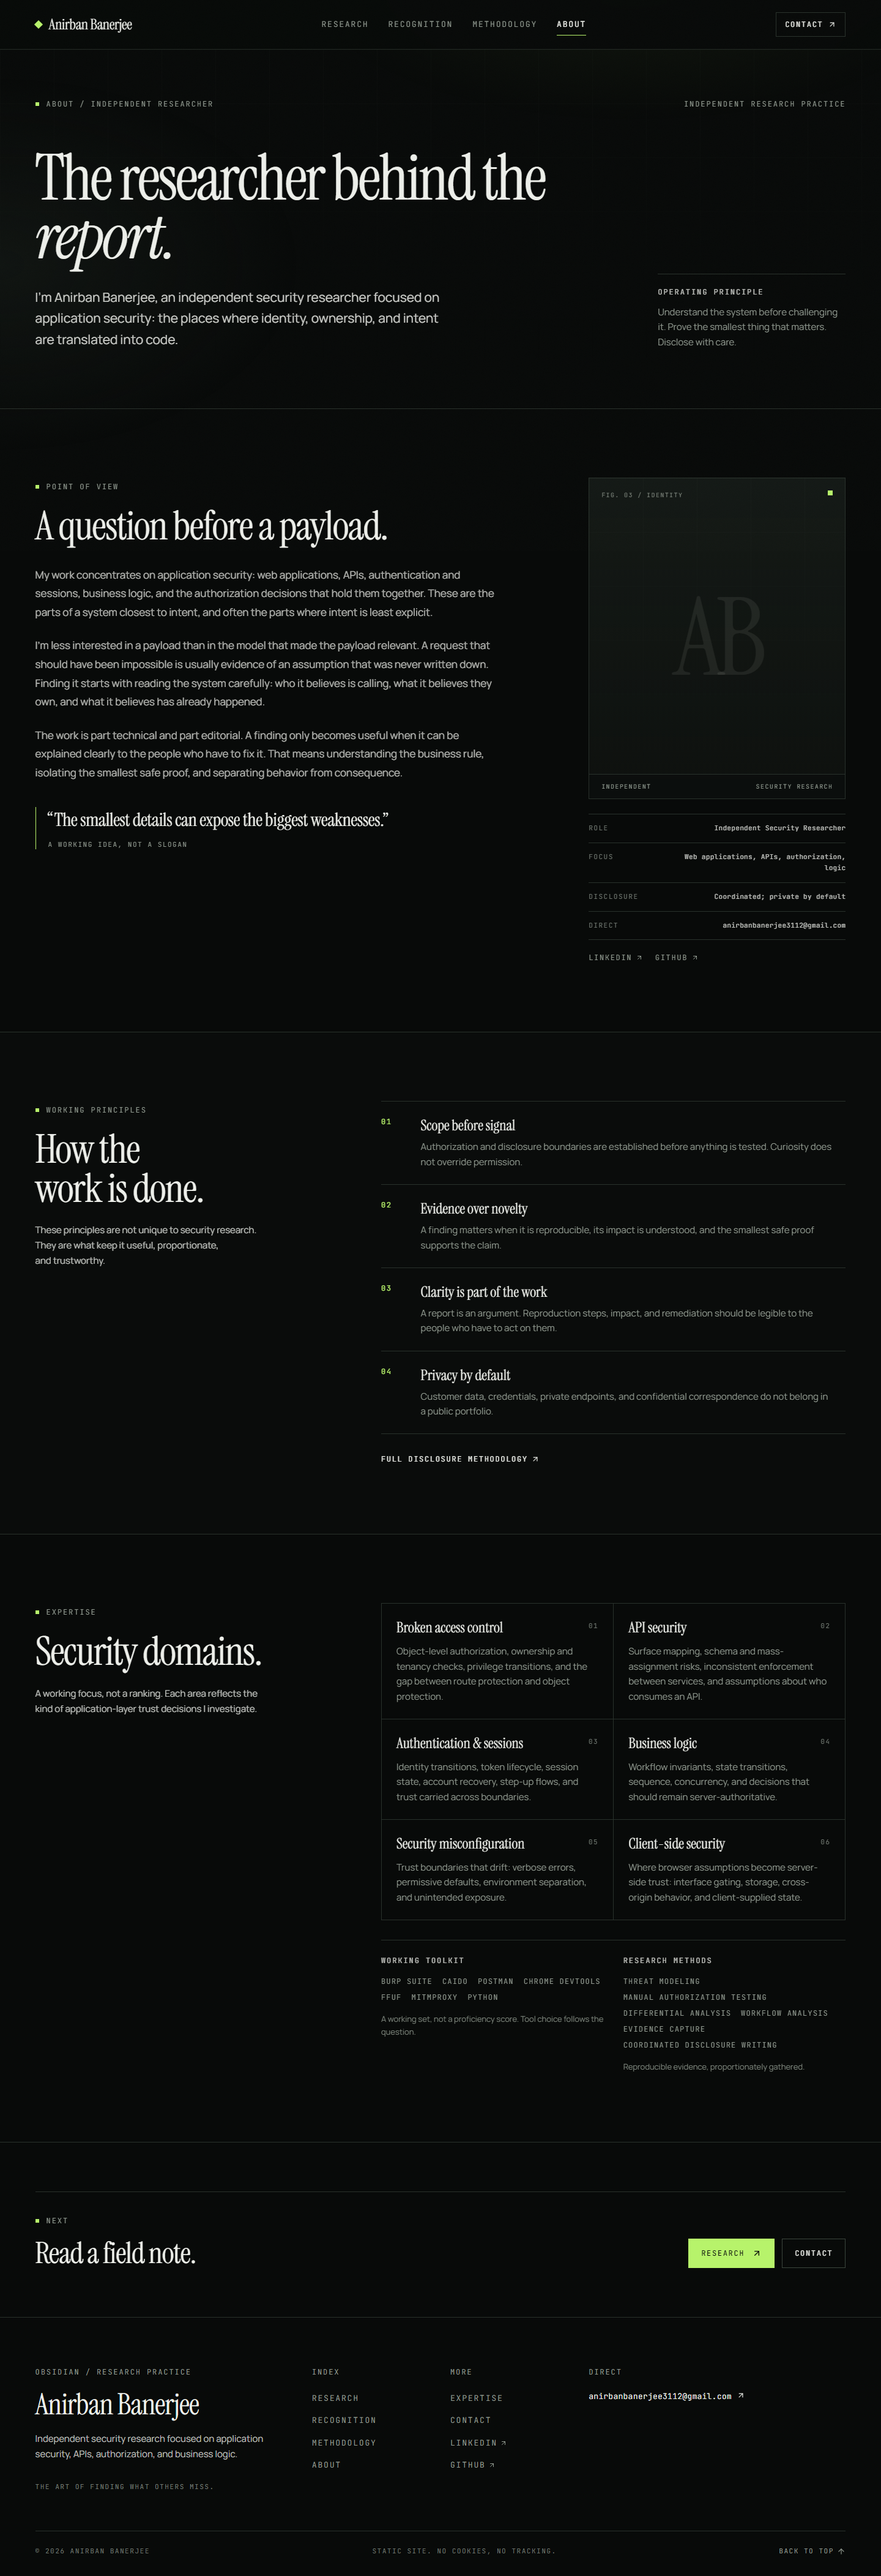
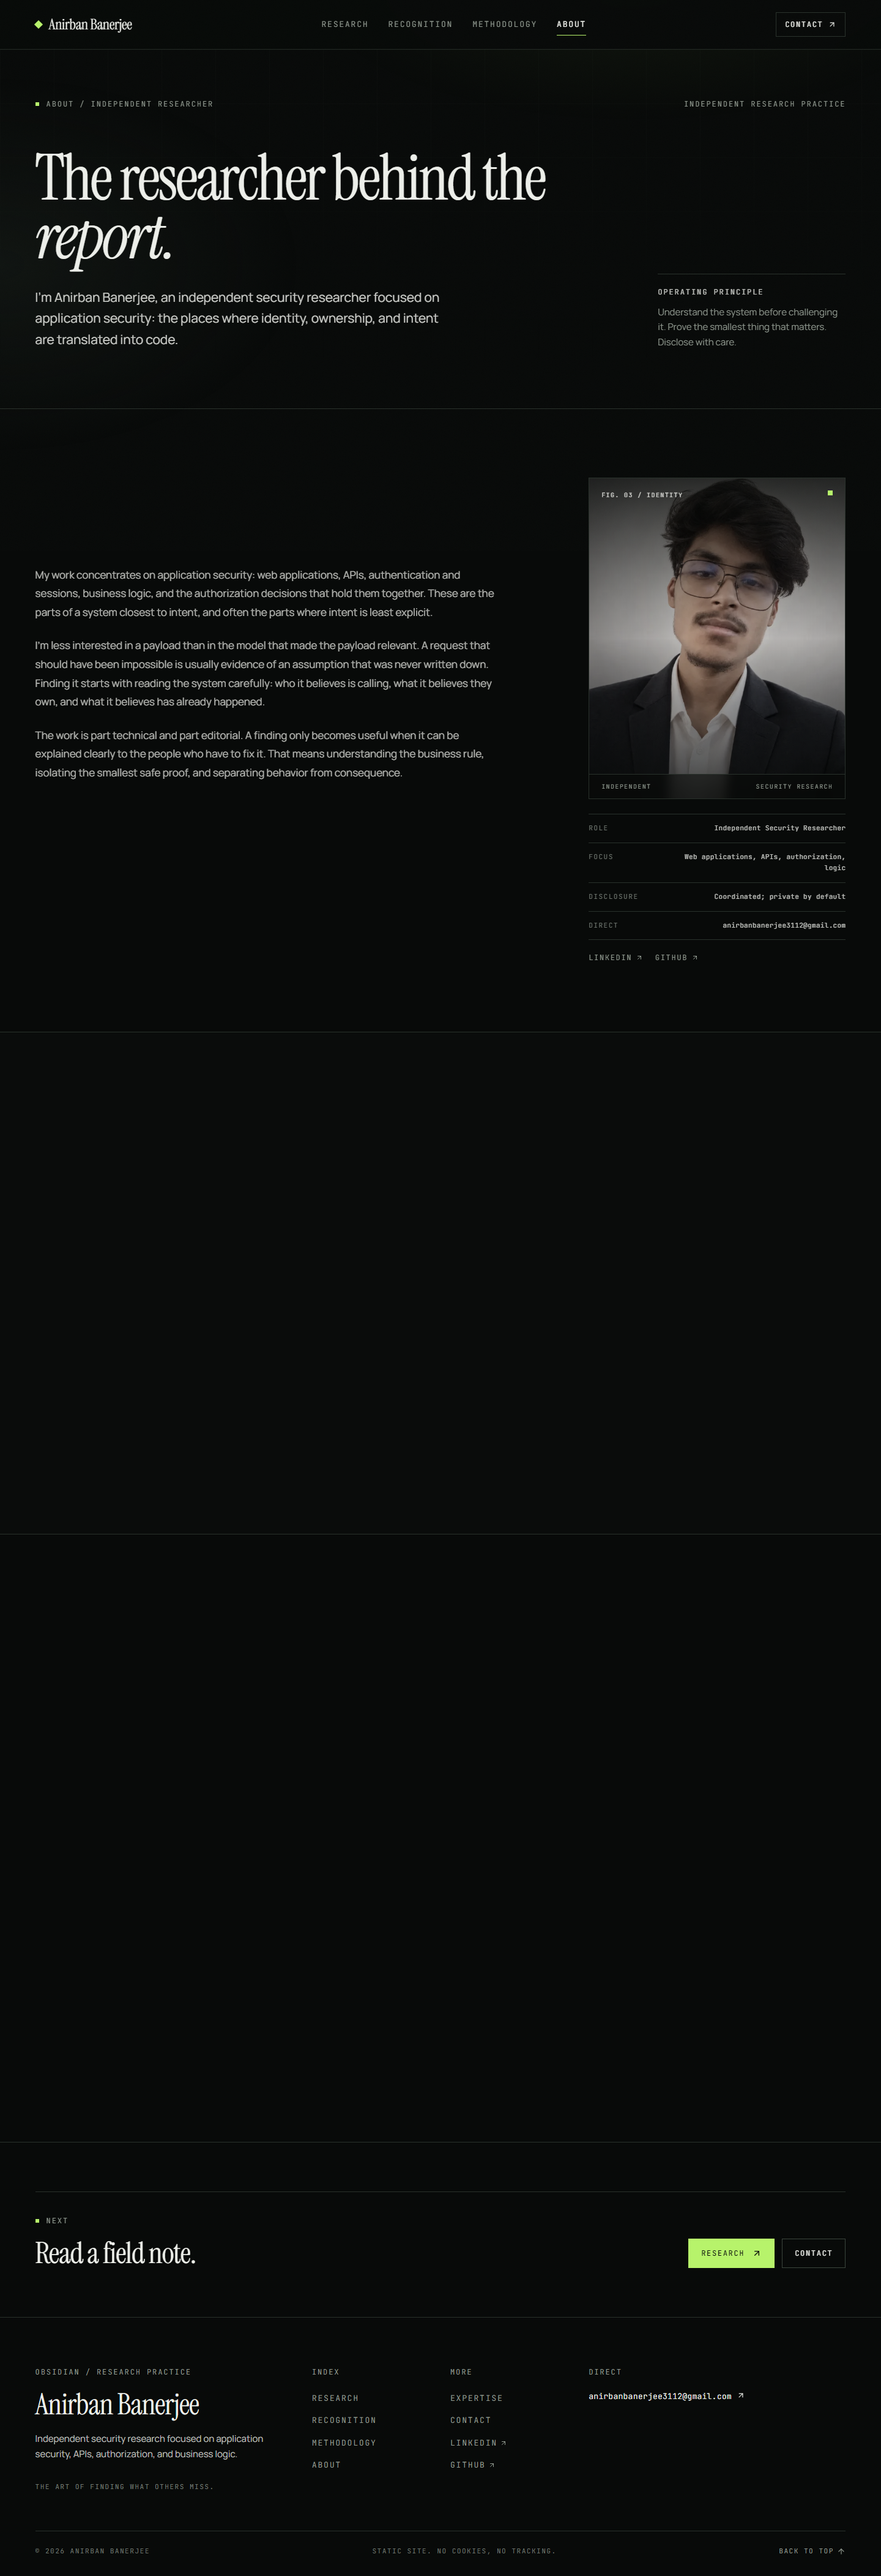
Fix: Added Identity Pic

diff --git a/src/app/about/page.tsx b/src/app/about/page.tsx
@@ -1,4 +1,5 @@
 import type { Metadata } from "next";
+import Image from "next/image";
 import Link from "next/link";
 import { ArrowUpRight } from "lucide-react";
 import { PageIntro } from "@/components/ui/PageIntro";
@@ -97,21 +98,26 @@ export default function AboutPage() {
                     aria-hidden="true"
                     className="hero-grid absolute inset-0 opacity-50"
                   />
-                  <div className="relative flex aspect-[4/5] items-center justify-center">
-                    <span
+                  <div className="relative aspect-[4/5] overflow-hidden">
+                    <Image
+                      src="/pic.png"
+                      alt="Portrait of Anirban Banerjee"
+                      fill
+                      sizes="(min-width: 1024px) 33vw, 100vw"
+                      className="object-cover object-center saturate-[0.55] contrast-[1.03] brightness-[0.9]"
+                    />
+                    <div
                       aria-hidden="true"
-                      className="font-display text-[clamp(7rem,14vw,11rem)] leading-none tracking-[-0.06em] text-bone/[0.08]"
-                    >
-                      AB
-                    </span>
+                      className="absolute inset-0 bg-gradient-to-b from-obsidian/80 via-obsidian/5 to-obsidian/75"
+                    />
                     <span
                       aria-hidden="true"
                       className="absolute top-5 right-5 h-2 w-2 bg-acid"
                     />
-                    <span className="absolute top-5 left-5 font-mono text-[0.625rem] uppercase tracking-[0.14em] text-mist/80">
+                    <span className="absolute top-5 left-5 font-mono text-[0.625rem] uppercase tracking-[0.14em] text-bone/85">
                       Fig. 03 / Identity
                     </span>
-                    <div className="absolute inset-x-0 bottom-0 flex items-center justify-between border-t border-line bg-obsidian/40 px-5 py-3 backdrop-blur-sm">
+                    <div className="absolute inset-x-0 bottom-0 flex items-center justify-between border-t border-line bg-obsidian/60 px-5 py-3 backdrop-blur-sm">
                       <span className="font-mono text-[0.625rem] uppercase tracking-[0.14em] text-mist">
                         Independent
                       </span>

diff --git a/src/app/page.tsx b/src/app/page.tsx
@@ -29,6 +29,7 @@ export default function HomePage() {
     jobTitle: siteConfig.role,
     description: siteConfig.description,
     email: `mailto:${siteConfig.email}`,
+    image: `${siteConfig.url}/pic.png`,
     sameAs: socialLinks.map((link) => link.href),
     knowsAbout: [
       "Web application security",
